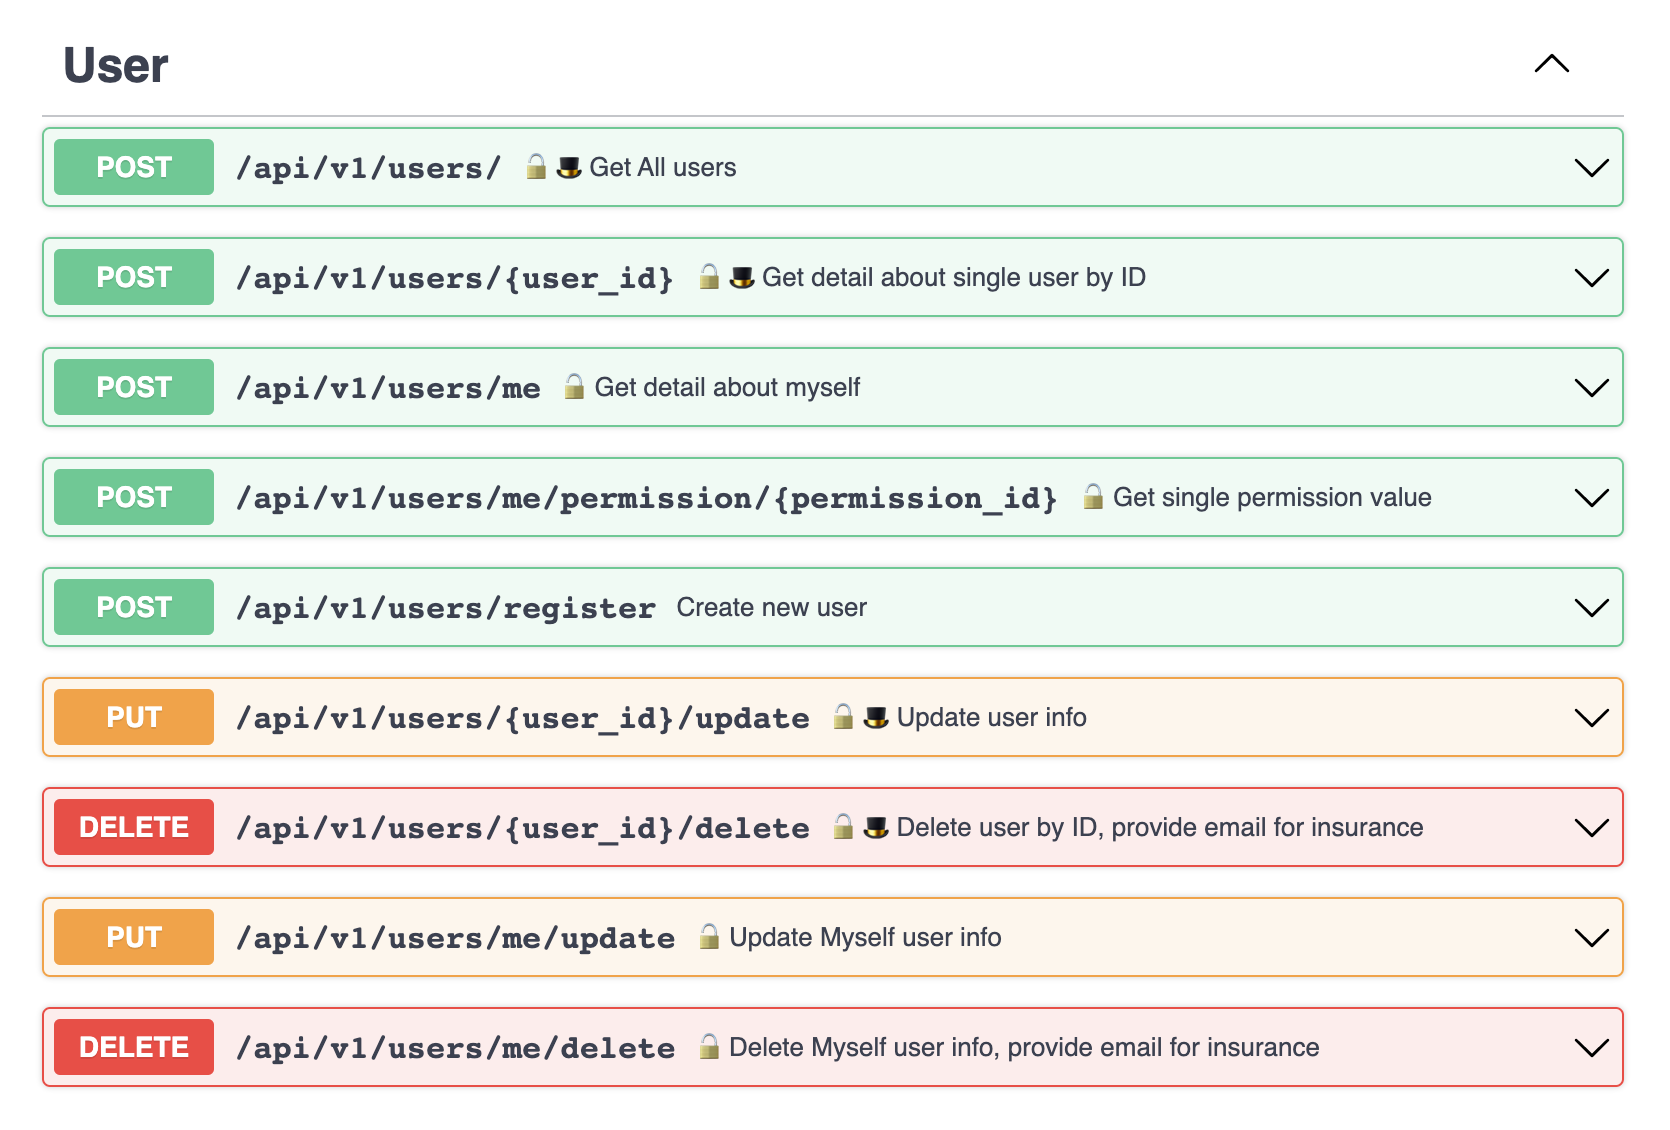
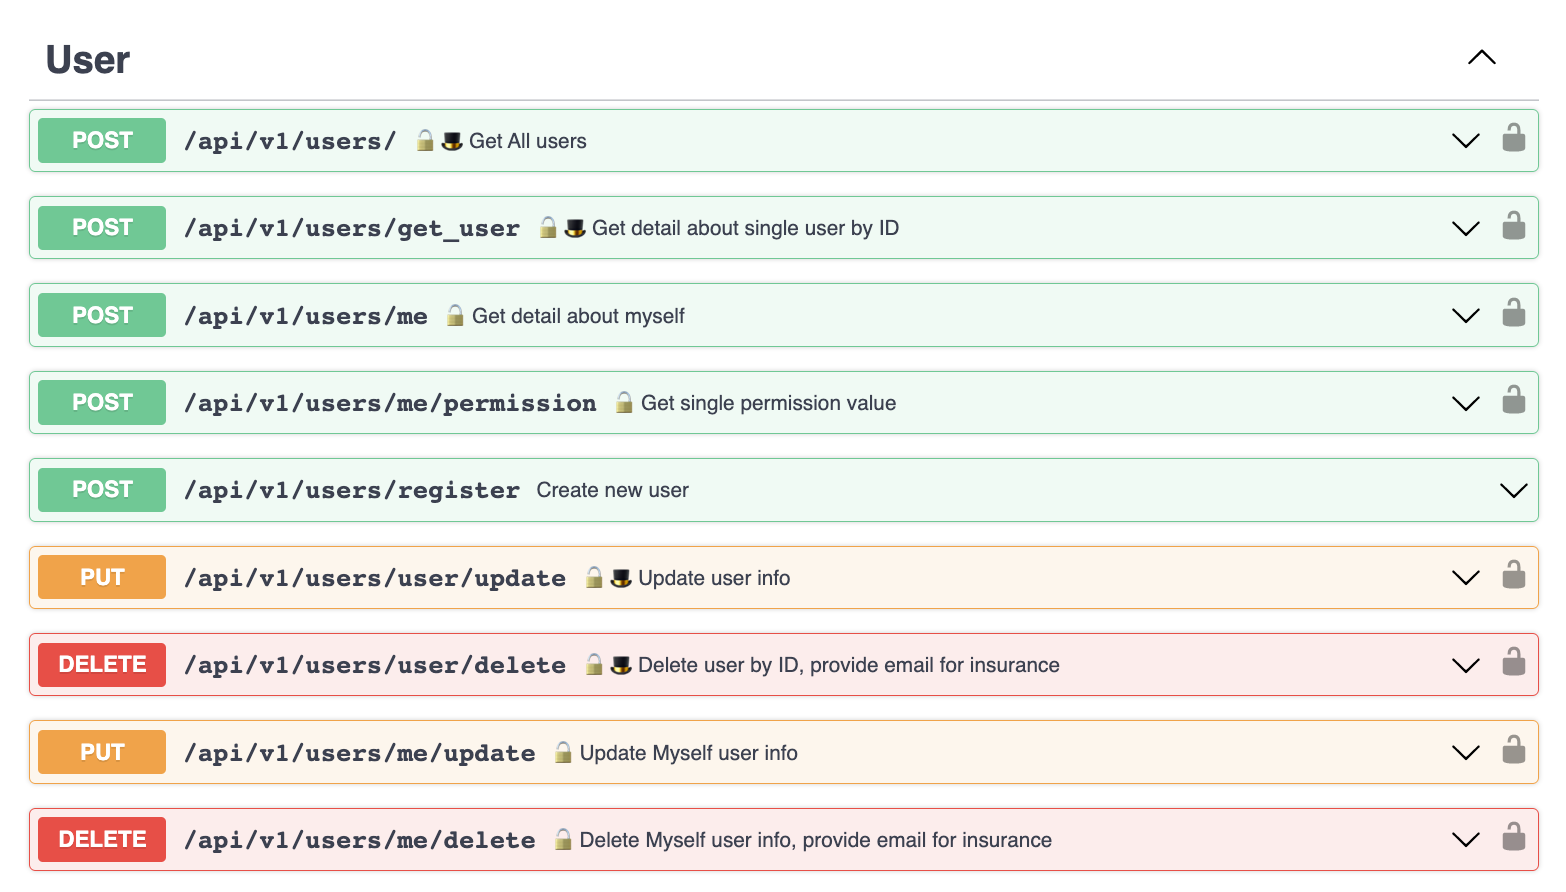
update descripton for User API

Changed region(s): [[0.0, 0.0303, 0.9808, 0.9686], [0.9195, 0.0303, 0.9502, 0.0605]]

diff --git a/rfc/auth_service.md b/rfc/auth_service.md
@@ -22,6 +22,10 @@
 
 #API
 
+Условные обозначения
+ - 🔓 - endpoint требует access токен для аутефикации.
+ - 🎩 - endpoint требует прав админа в системе для выполения действия.
+
 # API/users
 
 ![users](img/api_user_00_main.png)
@@ -69,7 +73,7 @@
 
 ![](img/api_user_03_getmyinfo.png)
 
-## API/users/me/permission/{permission_id}
+## API/users/me/permission/
 
 	**Параметры:**
     1) access_token
@@ -112,7 +116,7 @@
 
 ![](img/api_user_05_register_user.png)
 
-## API/users/{user_id}/update:
+## API/users/user/update:
 
 	**Параметры:**
     1) access_token
@@ -178,7 +182,7 @@
 
 ![](img/api_user_08_updateuser_me_1.png)
 
-## API/users/{user_id}/delete:
+## API/users/user/delete:
 
 	**Параметры:**
     1) access_token

diff --git a/rfc/users.md b/rfc/users.md
@@ -45,7 +45,7 @@
 
 ![](img/api_user_03_getmyinfo.png)
 
-## API/users/me/permission/{permission_id}
+## API/users/me/permission/
 
 	**Параметры:**
     1) access_token
@@ -88,7 +88,7 @@
 
 ![](img/api_user_05_register_user.png)
 
-## API/users/{user_id}/update:
+## API/users/user/update:
 
 	**Параметры:**
     1) access_token
@@ -154,7 +154,7 @@
 
 ![](img/api_user_08_updateuser_me_1.png)
 
-## API/users/{user_id}/delete:
+## API/users/user/delete:
 
 	**Параметры:**
     1) access_token
